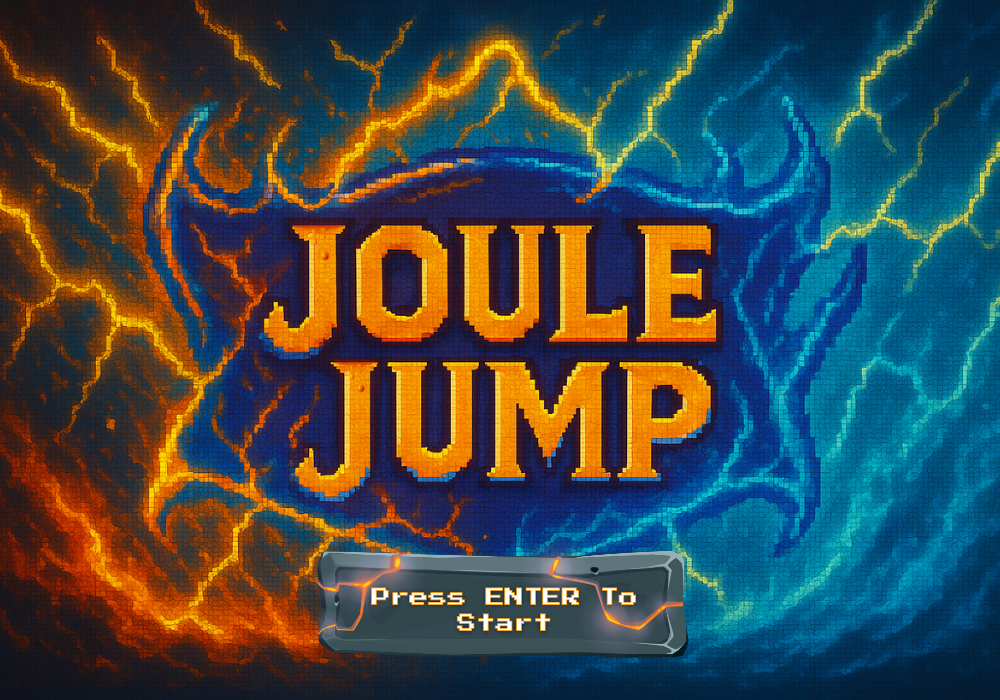
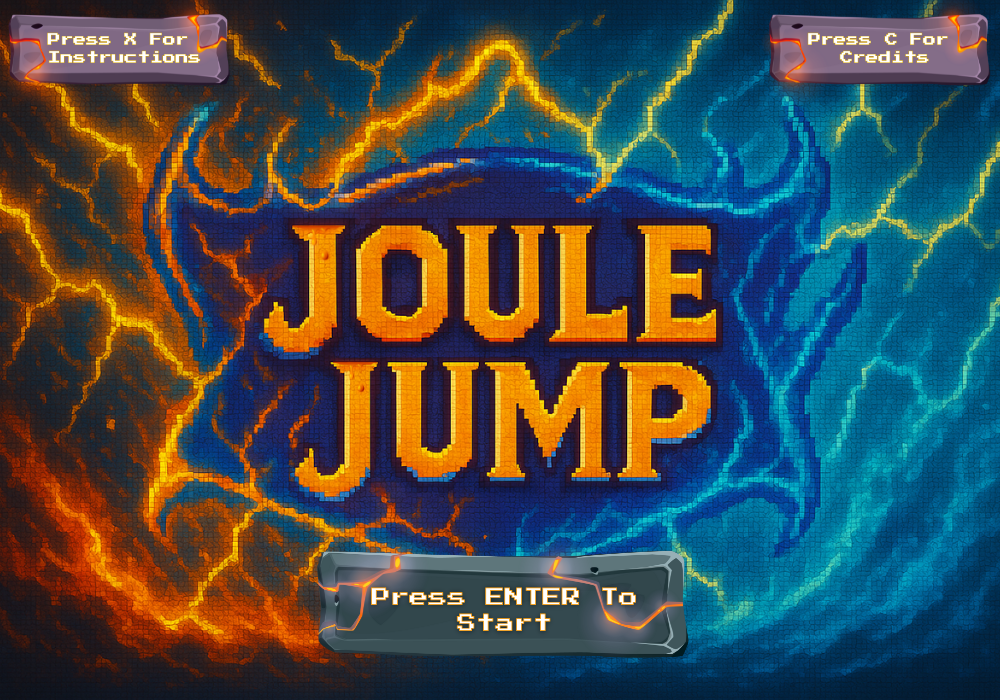
added instructions and credits screen

Changed region(s): [[0.744, 0.0, 0.992, 0.15], [0.0, 0.0, 0.248, 0.12]]

diff --git a/jj.py b/jj.py
@@ -458,6 +458,8 @@ game_active = False
 screenshake_status = False
 attraction_status = False
 is_in_death_animation = False
+instruction_step = 0
+credits_screen = 0
 start_time = 0
 score = 0
 main_menu_music.play(loops=-1)
@@ -465,7 +467,7 @@ transformer_up_sound = pygame.mixer.Sound('audio/transformer_up.mp3')
 transformer_up_sound.set_volume(1)
 transformer_down_sound = pygame.mixer.Sound('audio/transformer_down.mp3')
 transformer_down_sound.set_volume(1)
-jj_title = pygame.image.load('assets/environment/title_screen.png').convert_alpha()
+jj_title = pygame.image.load('assets/environment/title_screen.png').convert()
 gameover_screen = pygame.image.load('assets/environment/game_over.png').convert()
 
 
@@ -494,6 +496,13 @@ fire_background = pygame.image.load('assets/environment/fire_bg.png').convert()
 fire_floor = pygame.image.load('assets/environment/fire_floor.png').convert()
 ice_background = pygame.image.load('assets/environment/ice_bg.png').convert()
 ice_floor = pygame.image.load('assets/environment/ice_floor.png').convert()
+
+instructions_1 = pygame.image.load('assets/environment/instructions_page1.png').convert()
+instructions_2 = pygame.image.load('assets/environment/instructions_page2.png').convert()
+instructions_3 = pygame.image.load('assets/environment/instructions_page3.png').convert()
+instructions_4 = pygame.image.load('assets/environment/instructions_page4.png').convert()
+instructions_5 = pygame.image.load('assets/environment/instructions_page5.png').convert()
+credits_1 = pygame.image.load('assets/environment/credits.png').convert()
 
 screen_width, screen_height = screen.get_size()
 fire_background_scaled = pygame.transform.scale(fire_background, (screen_width, screen_height))
@@ -527,6 +536,17 @@ while True:
                 fight_ost_music = random.choice([pygame.mixer.Sound('audio/fight_ost1_gestralsummerparty.mp3'), pygame.mixer.Sound('audio/fight_ost2_inlumieresname.mp3')])
                 fight_ost_music.play(loops=-1)
                 start_time = int(pygame.time.get_ticks() / 1000)
+            elif event.type == pygame.KEYDOWN and event.key == pygame.K_x:
+                instruction_step = 1
+            elif event.type == pygame.KEYDOWN and event.key == pygame.K_d and instruction_step > 0:
+                instruction_step = min(instruction_step + 1, 5)
+            elif event.type == pygame.KEYDOWN and event.key == pygame.K_a and instruction_step > 1:
+                instruction_step -= 1
+            elif event.type == pygame.KEYDOWN and event.key == pygame.K_c and credits_screen == 0:
+                credits_screen = 1
+            elif event.type == pygame.KEYDOWN and event.key == pygame.K_ESCAPE:
+                instruction_step = 0
+                credits_screen = 0
 
     if game_active:
         if current_zone == zone_fire:
@@ -677,6 +697,18 @@ while True:
 
     else:
         screen.blit(jj_title, (0,0))
+        if instruction_step == 1:
+            screen.blit(instructions_1, (0, 0))
+        elif instruction_step == 2:
+            screen.blit(instructions_2, (0, 0))
+        elif instruction_step == 3:
+            screen.blit(instructions_3, (0, 0))
+        elif instruction_step == 4:
+            screen.blit(instructions_4, (0, 0))
+        elif instruction_step == 5:
+            screen.blit(instructions_5, (0, 0))
+        elif credits_screen == 1:
+            screen.blit(credits_1, (0, 0))
 
 
         # score_message = test_font.render(f'Your score: {score}',False,(111,196,169))
